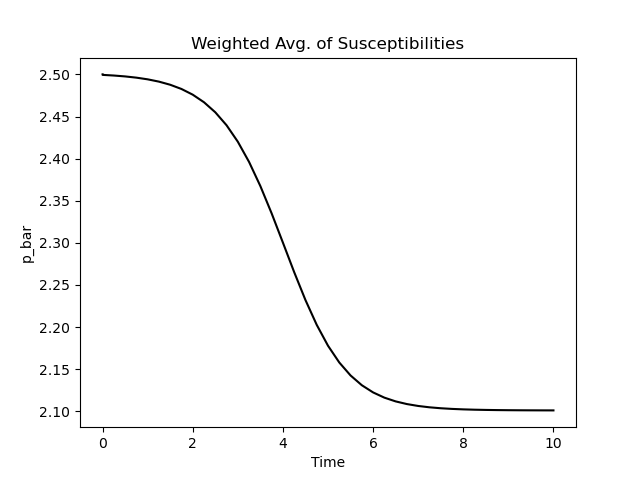
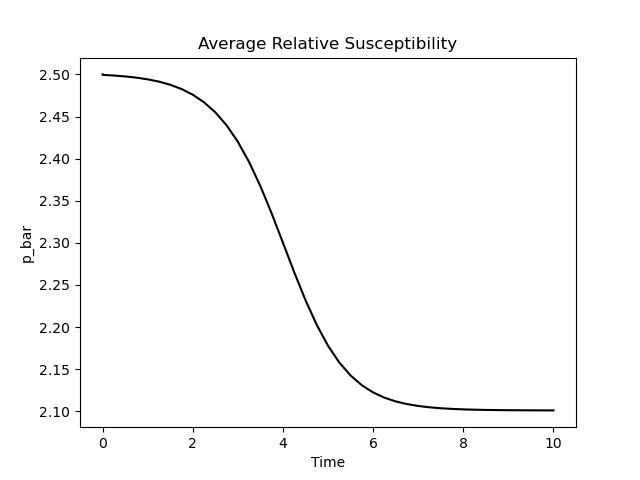
small update

Changed region(s): [[0.2812, 0.0625, 0.7188, 0.125]]

diff --git a/HW3/Q2.py b/HW3/Q2.py
@@ -90,7 +90,7 @@ def plot_p_bar(p, s, delta_t, t_frame):
     ax.plot(t_plot,p_bar,color='black')
     ax.set_xlabel('Time')
     ax.set_ylabel('p_bar')
-    ax.set_title('Weighted Avg. of Susceptibilities')
+    ax.set_title('Average Relative Susceptibility')
     plt.savefig('Q2d_p.png',dpi=100)
 
 
